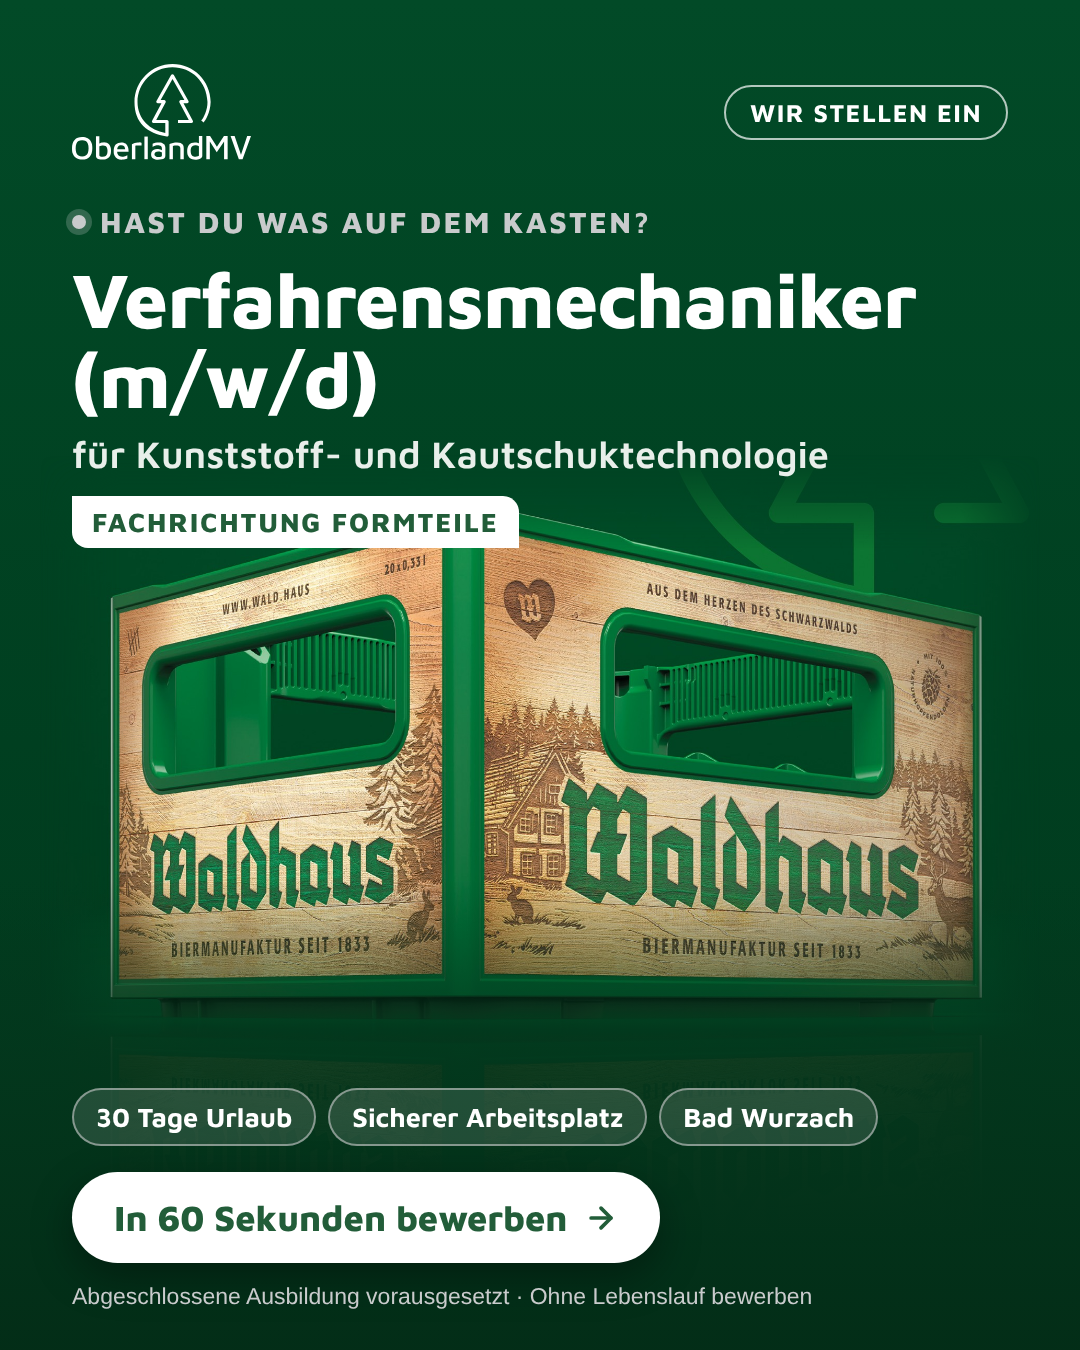
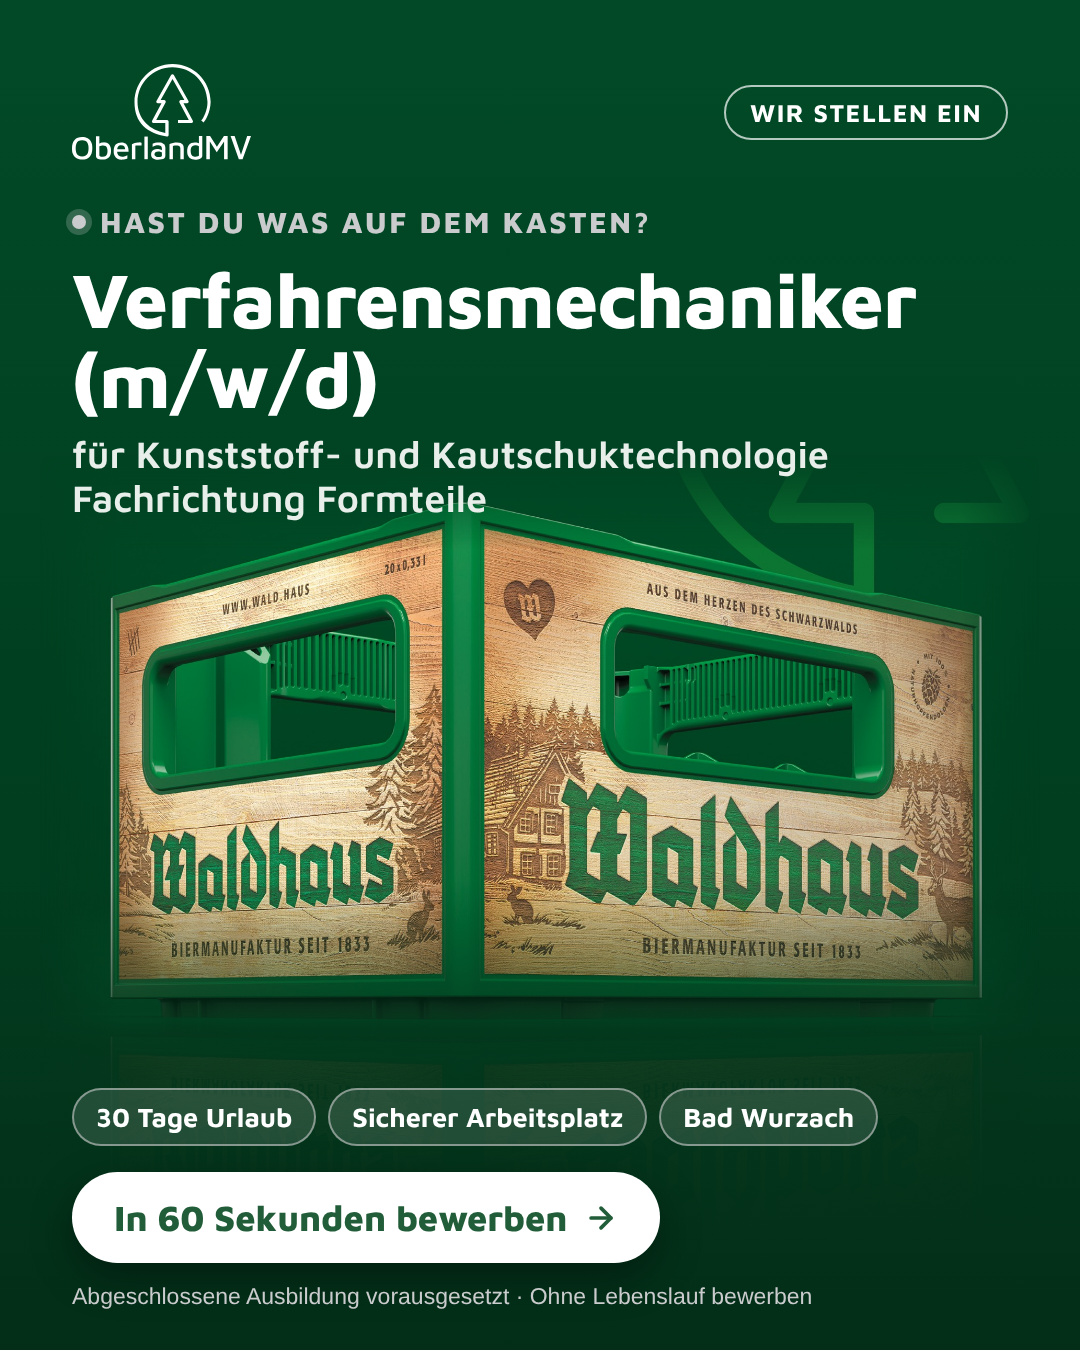
Fachrichtung überall direkt hinter den Ausbildungsberuf
Wortlaut wie in der Stellenanzeige: "Verfahrensmechaniker (m/w/d) für
Kunststoff- und Kautschuktechnologie Fachrichtung Formteile" – ohne
eigenes Etikett, Punkt oder Komma davor:
- Hero (Etikett entfernt), Kopfzeile und Voraussetzung der Stellenkarte
- Formular Frage 1: Beruf und Fachrichtung in der Frage selbst
- Meta-Daten, JobPosting, Lead-Table-Feld "stelle", FAQ
- Creatives (Stelle, Check, Arbeitgeber) neu gerendert, Werbetexte

Claude-Session: https://claude.ai/code/session_01Jbbe3tAhQswfKLzhgQVvCc

Changed region(s): [[0.0611, 0.3422, 0.4889, 0.4044]]

diff --git a/index.html b/index.html
@@ -5,7 +5,7 @@
 <meta name="viewport" content="width=device-width, initial-scale=1.0" />
 
 <title>Karriere bei Oberland MV · Verfahrensmechaniker (m/w/d) Kunststoff- und Kautschuktechnologie in Bad Wurzach</title>
-<meta name="description" content="Oberland M &amp; V GmbH in Bad Wurzach sucht Verfahrensmechaniker (m/w/d) für Kunststoff- und Kautschuktechnologie, Fachrichtung Formteile. Vollzeit, 30 Tage Urlaub, sicherer Arbeitsplatz. Jetzt in unter 60 Sekunden bewerben – ohne Lebenslauf." />
+<meta name="description" content="Oberland M &amp; V GmbH in Bad Wurzach sucht Verfahrensmechaniker (m/w/d) für Kunststoff- und Kautschuktechnologie Fachrichtung Formteile. Vollzeit, 30 Tage Urlaub, sicherer Arbeitsplatz. Jetzt in unter 60 Sekunden bewerben – ohne Lebenslauf." />
 <meta name="robots" content="index, follow, max-image-preview:large" />
 <meta name="theme-color" content="#225d39" />
 <meta name="geo.region" content="DE-BW" />
@@ -20,7 +20,7 @@
 <meta property="og:locale" content="de_DE" />
 <meta property="og:site_name" content="Oberland M &amp; V GmbH" />
 <meta property="og:title" content="Verfahrensmechaniker (m/w/d) bei Oberland MV in Bad Wurzach" />
-<meta property="og:description" content="Kunststoff- und Kautschuktechnologie, Fachrichtung Formteile. Vollzeit, 30 Tage Urlaub, sicherer Arbeitsplatz. Jetzt in unter 60 Sekunden bewerben." />
+<meta property="og:description" content="Für Kunststoff- und Kautschuktechnologie Fachrichtung Formteile. Vollzeit, 30 Tage Urlaub, sicherer Arbeitsplatz. Jetzt in unter 60 Sekunden bewerben." />
 <meta property="og:url" content="https://saviold.github.io/Oberland/" />
 <meta property="og:image" content="https://saviold.github.io/Oberland/creatives/oberland-stelle-4x5.png" />
 
@@ -41,7 +41,7 @@
   "employmentType": "FULL_TIME",
   "hiringOrganization": { "@type": "Organization", "name": "Oberland M & V GmbH", "sameAs": "https://www.oberlandmv.com/", "logo": "https://saviold.github.io/Oberland/bilder/favicon.png" },
   "jobLocation": { "@type": "Place", "address": { "@type": "PostalAddress", "streetAddress": "Oberriedstraße 7", "addressLocality": "Bad Wurzach", "postalCode": "88410", "addressRegion": "BW", "addressCountry": "DE" } },
-  "qualifications": "Abgeschlossene Ausbildung als Verfahrensmechaniker (m/w/d) für Kunststoff- und Kautschuktechnologie, Fachrichtung Formteile. Gute Deutschkenntnisse.",
+  "qualifications": "Abgeschlossene Ausbildung als Verfahrensmechaniker (m/w/d) für Kunststoff- und Kautschuktechnologie Fachrichtung Formteile. Gute Deutschkenntnisse.",
   "jobBenefits": "Sicherer Arbeitsplatz, attraktive Vergütung, 30 Tage Urlaub, Fort- und Weiterbildung, strukturierte Einarbeitung, VWL und bAV, Dienstrad-Leasing, kostenlose Parkplätze, Mitarbeiterrabatte, Mitarbeiterevents",
   "directApply": true
 }
@@ -138,7 +138,6 @@ img{max-width:100%;display:block}
 .hero__eyebrow .dot{width:9px;height:9px;border-radius:50%;background:var(--silver-light);box-shadow:0 0 0 4px rgba(201,203,204,.28);flex:0 0 auto}
 .hero h1{color:#fff;font-size:clamp(30px,4.2vw,48px);font-weight:800;line-height:1.08;hyphens:manual}
 .hero h1 .h1-sub{display:block;font-size:.6em;font-weight:600;line-height:1.2;margin-top:8px;color:#e9f2ec}
-.hero h1 .h1-fr{display:inline-block;margin-top:12px;font-size:clamp(12px,.36em,17px);font-weight:700;letter-spacing:.06em;text-transform:uppercase;color:var(--brand);background:#fff;padding:5px 12px;border-radius:0 9px 0 9px;text-shadow:none;line-height:1.3}
 .hero__sub{margin-top:16px;font-size:18px;font-weight:400;color:#e8efea;max-width:500px}
 .hero__sub b{color:#fff;font-weight:700}
 .hero__cta{margin-top:28px;display:flex;gap:14px;flex-wrap:wrap}
@@ -442,7 +441,7 @@ footer{padding:54px 0 36px;background:var(--brand);color:#e4efe8}
           <span class="brand__fallback"><b>OberlandMV</b><span>Natürlich geht’s!</span></span>
         </div>
         <span class="hero__eyebrow"><span class="dot"></span>Hast du was auf dem Kasten?</span>
-        <h1 id="heroTitle">Verfahrens&shy;mechaniker (m/w/d) <span class="h1-sub">für Kunststoff- und Kautschuk&shy;technologie</span><span class="h1-fr">Fachrichtung Formteile</span></h1>
+        <h1 id="heroTitle">Verfahrens&shy;mechaniker (m/w/d) <span class="h1-sub">für Kunststoff- und Kautschuk&shy;technologie Fachrichtung Formteile</span></h1>
         <p class="hero__sub" id="heroSub">Vollzeit in <b>Bad Wurzach</b> – beim führenden Mehrweg-Verpackungshersteller der europäischen Getränkebranche. Bewirb dich in unter 60&nbsp;Sekunden.</p>
         <div class="hero__cta">
           <a class="btn btn--accent" href="#bewerbung">Jetzt bewerben
@@ -488,7 +487,7 @@ footer{padding:54px 0 36px;background:var(--brand);color:#e4efe8}
       <div class="job__head">
         <div class="job__icon" aria-hidden="true"><svg viewBox="0 0 24 24" fill="none" stroke-width="1.8" stroke-linecap="round" stroke-linejoin="round"><path d="M12 15a3 3 0 1 0 0-6 3 3 0 0 0 0 6z"/><path d="M19.4 15a1.65 1.65 0 0 0 .33 1.82l.06.06a2 2 0 1 1-2.83 2.83l-.06-.06a1.65 1.65 0 0 0-1.82-.33 1.65 1.65 0 0 0-1 1.51V21a2 2 0 1 1-4 0v-.09A1.65 1.65 0 0 0 9 19.4a1.65 1.65 0 0 0-1.82.33l-.06.06a2 2 0 1 1-2.83-2.83l.06-.06A1.65 1.65 0 0 0 4.68 15a1.65 1.65 0 0 0-1.51-1H3a2 2 0 1 1 0-4h.09A1.65 1.65 0 0 0 4.6 9a1.65 1.65 0 0 0-.33-1.82l-.06-.06a2 2 0 1 1 2.83-2.83l.06.06A1.65 1.65 0 0 0 9 4.68a1.65 1.65 0 0 0 1-1.51V3a2 2 0 1 1 4 0v.09a1.65 1.65 0 0 0 1 1.51 1.65 1.65 0 0 0 1.82-.33l.06-.06a2 2 0 1 1 2.83 2.83l-.06.06A1.65 1.65 0 0 0 19.4 9a1.65 1.65 0 0 0 1.51 1H21a2 2 0 1 1 0 4h-.09a1.65 1.65 0 0 0-1.51 1z"/></svg></div>
         <div>
-          <h3>Verfahrens&shy;mechaniker (m/w/d) <small>für Kunststoff- und Kautschuktechnologie · Fachrichtung Formteile</small></h3>
+          <h3>Verfahrens&shy;mechaniker (m/w/d) <small>für Kunststoff- und Kautschuktechnologie Fachrichtung Formteile</small></h3>
           <div class="job__meta"><span class="tag">Vollzeit</span><span class="tag">3-Schicht-System</span><span class="tag">Bad Wurzach</span><span class="tag tag--silver">30 Tage Urlaub</span></div>
         </div>
       </div>
@@ -515,7 +514,7 @@ footer{padding:54px 0 36px;background:var(--brand);color:#e4efe8}
         <div>
           <h4>Das setzen wir voraus</h4>
           <ul class="job__must">
-            <li>Abgeschlossene Ausbildung als Verfahrensmechaniker (m/w/d) für Kunststoff- und Kautschuktechnologie, Fachrichtung Formteile</li>
+            <li>Abgeschlossene Ausbildung als Verfahrensmechaniker (m/w/d) für Kunststoff- und Kautschuktechnologie Fachrichtung Formteile</li>
             <li>Gute Deutschkenntnisse</li>
           </ul>
           <h4>Das bringst du mit</h4>
@@ -625,13 +624,13 @@ footer{padding:54px 0 36px;background:var(--brand);color:#e4efe8}
       <form class="form-card__body" id="applyForm" novalidate>
         <input class="hp" type="text" name="firma_website" tabindex="-1" autocomplete="off" aria-hidden="true" />
 
-        <!-- ---------- FRAGE 1 · PFLICHT (K.-o.): Ausbildung + Fachrichtung ---------- -->
+        <!-- ---------- FRAGE 1 · PFLICHT (K.-o.): Ausbildung Verfahrensmechaniker Fachrichtung Formteile ---------- -->
         <div class="fstep is-active">
           <h3>Deine Ausbildung</h3>
-          <p class="hint">Hast du eine abgeschlossene Ausbildung als Verfahrensmechaniker (m/w/d) für Kunststoff- und Kautschuktechnologie?</p>
+          <p class="hint">Hast du eine abgeschlossene Ausbildung als Verfahrensmechaniker (m/w/d) für Kunststoff- und Kautschuktechnologie Fachrichtung Formteile?</p>
           <div class="choice-grid" data-field="ausbildung">
-            <label class="choice"><input type="radio" name="ausbildung" value="Ja, abgeschlossen – Fachrichtung Formteile" data-ok="1" /><span class="key">A</span><span>Ja, Fachrichtung Formteile</span></label>
-            <label class="choice"><input type="radio" name="ausbildung" value="Ja, abgeschlossen – aber andere Fachrichtung" /><span class="key">B</span><span>Ja, aber andere Fachrichtung<small>z. B. Halbzeuge, Bauteile, Faserverbund</small></span></label>
+            <label class="choice"><input type="radio" name="ausbildung" value="Ja, abgeschlossene Ausbildung als Verfahrensmechaniker für Kunststoff- und Kautschuktechnologie Fachrichtung Formteile" data-ok="1" /><span class="key">A</span><span>Ja, genau diese Ausbildung</span></label>
+            <label class="choice"><input type="radio" name="ausbildung" value="Verfahrensmechaniker für Kunststoff- und Kautschuktechnologie, aber andere Fachrichtung" /><span class="key">B</span><span>Ja, aber andere Fachrichtung<small>z. B. Halbzeuge, Bauteile, Faserverbund</small></span></label>
             <label class="choice"><input type="radio" name="ausbildung" value="Noch in der Ausbildung" /><span class="key">C</span><span>Ich bin noch in der Ausbildung</span></label>
             <label class="choice"><input type="radio" name="ausbildung" value="Nein, andere oder keine abgeschlossene Ausbildung" /><span class="key">D</span><span>Nein, andere oder keine Ausbildung</span></label>
           </div>
@@ -726,7 +725,7 @@ footer{padding:54px 0 36px;background:var(--brand);color:#e4efe8}
     </div>
     <div class="faq">
       <details><summary>Brauche ich einen Lebenslauf?</summary><div class="faq__a">Nein. Für die Bewerbung reichen vier kurze Fragen und deine Kontaktdaten. Es gibt bewusst keinen Datei-Upload – alles Weitere besprechen wir persönlich.</div></details>
-      <details><summary>Welche Voraussetzungen muss ich mitbringen?</summary><div class="faq__a">Eine abgeschlossene Ausbildung als Verfahrensmechaniker (m/w/d) für Kunststoff- und Kautschuktechnologie in der Fachrichtung Formteile sowie gute Deutschkenntnisse. Schön ist, wenn du schon Erfahrung in der Fertigung mitbringst – idealerweise in der Kunststoffverarbeitung – und bereit bist, im 3-Schicht-System zu arbeiten.</div></details>
+      <details><summary>Welche Voraussetzungen muss ich mitbringen?</summary><div class="faq__a">Eine abgeschlossene Ausbildung als Verfahrensmechaniker (m/w/d) für Kunststoff- und Kautschuktechnologie Fachrichtung Formteile sowie gute Deutschkenntnisse. Schön ist, wenn du schon Erfahrung in der Fertigung mitbringst – idealerweise in der Kunststoffverarbeitung – und bereit bist, im 3-Schicht-System zu arbeiten.</div></details>
       <details><summary>Was bedeuten IML und GID?</summary><div class="faq__a">IML steht für In-Mould-Labeling: Das Etikett bzw. Dekor wird direkt beim Spritzgießen mit dem Kasten verbunden. GID steht für Gasinnendruck – dabei formt Gas gezielt Hohlräume im Bauteil. Beides läuft bei uns automatisiert; du richtest die Prozesse ein, überwachst und optimierst sie.</div></details>
       <details><summary>Was bietet ihr außer dem Gehalt?</summary><div class="faq__a">30 Tage Urlaub, Unterstützung bei VWL und betrieblicher Altersvorsorge, individuelle Weiterbildung, Dienstrad-Leasing, kostenlose Parkplätze direkt am Firmengebäude, Mitarbeiterrabatte und Einkaufsvorteile, regelmäßige Mitarbeiterevents sowie kostenloses Mineralwasser und Obst.</div></details>
       <details><summary>Wie schnell bekomme ich eine Rückmeldung?</summary><div class="faq__a">Wir melden uns persönlich und zeitnah – in der Regel telefonisch für ein kurzes, unkompliziertes Erstgespräch.</div></details>
@@ -781,7 +780,7 @@ footer{padding:54px 0 36px;background:var(--brand);color:#e4efe8}
      ===================================================================== */
   var WEBHOOK_URL = "https://api-v2.lead-table.com/api/webhook/generic/eyJhbGciOiJIUzI1NiIsInR5cCI6IkpXVCJ9.eyJ0YWJsZUlEIjoiNmFlZDg4Y2NkN2FkMzE1OGY0NDY0MmNkIiwiY3VzdG9tZXJJRCI6IjZhZWQ4OGIxZTE5MWJkYzYzNGQzYzFjYSIsImFnZW5jeUlEIjoiNjliZDc3NzVlNGQxN2IzOGVkNjUzZDE2IiwiaWF0IjoxNzkzOTUxOTQ5fQ.JYcy3amYB6HpAZ39n_JExeSrm2aodQSIMXYZUa5Mh1k";
 
-  var STELLE = "Verfahrensmechaniker (m/w/d) für Kunststoff- und Kautschuktechnologie, Fachrichtung Formteile";
+  var STELLE = "Verfahrensmechaniker (m/w/d) für Kunststoff- und Kautschuktechnologie Fachrichtung Formteile";
 
   /* ---------------------------------------------------------------------
      SCREENING-KONFIGURATION
@@ -794,7 +793,7 @@ footer{padding:54px 0 36px;background:var(--brand);color:#e4efe8}
      Welche Antwort als "erfüllt" gilt, steht direkt am Radio (data-ok="1").
      --------------------------------------------------------------------- */
   var QUESTIONS = [
-    { field:"ausbildung",          label:"Ausbildung (Fachrichtung Formteile)", pflicht:true  },
+    { field:"ausbildung",          label:"Ausbildung Verfahrensmechaniker Fachrichtung Formteile", pflicht:true  },
     { field:"deutschkenntnisse",   label:"Deutschkenntnisse",                   pflicht:true  },
     { field:"erfahrung_fertigung", label:"Erfahrung in der Fertigung",          pflicht:false },
     { field:"schichtbereitschaft", label:"3-Schicht-Bereitschaft",              pflicht:false }

diff --git a/creatives/werbetexte.md b/creatives/werbetexte.md
@@ -1,6 +1,6 @@
 # Werbetexte – Meta Ads · Oberland MV
 
-Stelle: Verfahrensmechaniker (m/w/d) für Kunststoff- und Kautschuktechnologie,
+Stelle: Verfahrensmechaniker (m/w/d) für Kunststoff- und Kautschuktechnologie
 Fachrichtung Formteile · Bad Wurzach
 
 Drei Varianten mit unterschiedlichem Ansatz. Jede Variante ist mit **jedem**
@@ -18,7 +18,7 @@ VARIANTE 1
 Primärtext:
 30 Tage Urlaub. Ein sicherer Arbeitsplatz. Und Vorsorge, die mitwächst.
 
-Oberland MV in Bad Wurzach ist der führende Mehrweg-Verpackungshersteller der europäischen Getränkebranche – ausgezeichnet mit dem Deutschen Verpackungspreis und dem World Star Packaging Award. Für unsere Spritzgussfertigung suchen wir dich als Verfahrensmechaniker (m/w/d) für Kunststoff- und Kautschuktechnologie, Fachrichtung Formteile.
+Oberland MV in Bad Wurzach ist der führende Mehrweg-Verpackungshersteller der europäischen Getränkebranche – ausgezeichnet mit dem Deutschen Verpackungspreis und dem World Star Packaging Award. Für unsere Spritzgussfertigung suchen wir dich als Verfahrensmechaniker (m/w/d) für Kunststoff- und Kautschuktechnologie Fachrichtung Formteile.
 
 Das bekommst du bei uns:
 ✓ 30 Tage Urlaub
@@ -36,13 +36,13 @@ Verfahrensmechaniker (m/w/d) · Formteile
 
 VARIANTE 2
 Primärtext:
-Verfahrensmechaniker (m/w/d), Fachrichtung Formteile – und Spritzguss ist genau dein Ding? Dann suchen wir dich.
+Verfahrensmechaniker (m/w/d) für Kunststoff- und Kautschuktechnologie Fachrichtung Formteile – und Spritzguss ist genau dein Ding? Dann suchen wir dich.
 
 Bei uns rüstest und richtest du Spritzgussmaschinen ein, programmierst und optimierst Prozesse, bindest Roboter und Peripherie ein und hältst automatisierte Abläufe mit IML und GID auf Kurs. Wenn's hakt, findest du den Fehler – und behebst ihn.
 
 So entstehen langlebige Mehrweg-Getränkekästen für Brauereien und Getränkehersteller in ganz Europa.
 
-Was du mitbringst: abgeschlossene Ausbildung als Verfahrensmechaniker für Kunststoff- und Kautschuktechnologie (Formteile), gute Deutschkenntnisse, Bereitschaft zum 3-Schicht-System.
+Was du mitbringst: abgeschlossene Ausbildung als Verfahrensmechaniker für Kunststoff- und Kautschuktechnologie Fachrichtung Formteile, gute Deutschkenntnisse, Bereitschaft zum 3-Schicht-System.
 Was wir bieten: sicherer Arbeitsplatz, attraktive Vergütung, 30 Tage Urlaub, strukturierte Einarbeitung mit persönlicher Begleitung.
 
 Hast du was auf dem Kasten? Dann bewirb dich in 60 Sekunden.
@@ -57,7 +57,7 @@ Nur Knöpfe drücken statt Prozesse gestalten? Und nie sicher, wie es mit deinem
 
 Bei Oberland MV läuft das anders. Seit fast 60 Jahren entwickeln wir Mehrweglösungen, die bleiben – heute als führender Verpackungshersteller der europäischen Getränkebranche, in einer zukunftssicheren Branche.
 
-Als Verfahrensmechaniker (m/w/d) für Kunststoff- und Kautschuktechnologie, Fachrichtung Formteile, übernimmst du Verantwortung für deine Anlagen: rüsten, einrichten, Prozesse optimieren, Qualität sichern. Mit strukturierter Einarbeitung, persönlicher Begleitung und Weiterbildung, die dich weiterbringt.
+Als Verfahrensmechaniker (m/w/d) für Kunststoff- und Kautschuktechnologie Fachrichtung Formteile übernimmst du Verantwortung für deine Anlagen: rüsten, einrichten, Prozesse optimieren, Qualität sichern. Mit strukturierter Einarbeitung, persönlicher Begleitung und Weiterbildung, die dich weiterbringt.
 
 Dazu: 30 Tage Urlaub, attraktive Vergütung, VWL und bAV, Dienstrad-Leasing und regelmäßige Mitarbeiterevents.
 

diff --git a/README.md b/README.md
@@ -145,8 +145,8 @@ kombiniertes `name` / `fullname` / `vollstaendiger_name`:
   "nachname": "Mustermann",
   "telefon": "0151 23456789",
   "email": "max.mustermann@beispiel.de",
-  "stelle": "Verfahrensmechaniker (m/w/d) für Kunststoff- und Kautschuktechnologie, Fachrichtung Formteile",
-  "ausbildung": "Ja, abgeschlossen – Fachrichtung Formteile",
+  "stelle": "Verfahrensmechaniker (m/w/d) für Kunststoff- und Kautschuktechnologie Fachrichtung Formteile",
+  "ausbildung": "Ja, abgeschlossene Ausbildung als Verfahrensmechaniker für Kunststoff- und Kautschuktechnologie Fachrichtung Formteile",
   "deutschkenntnisse": "Gut – ich verstehe Arbeitsanweisungen und verständige mich sicher",
   "erfahrung_fertigung": "Noch nicht – bisher nur in der Ausbildung (nicht erfüllt)",
   "schichtbereitschaft": "Ja, 3-Schicht passt für mich",
